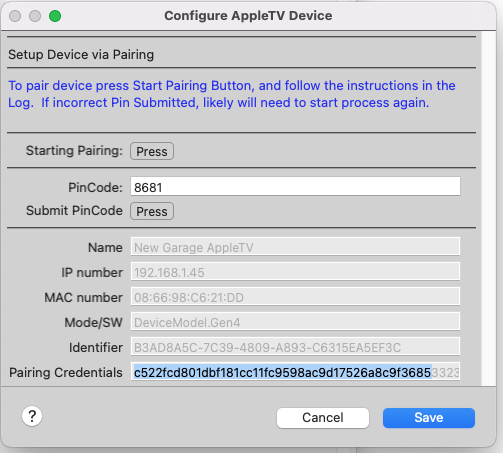
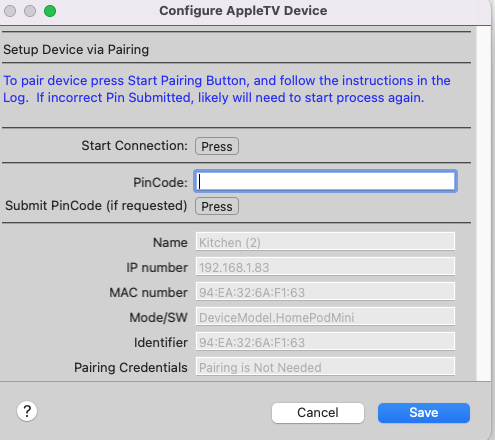
0.1.9 Add Action Group to Send Text to Speech annoucement to HomePods with current OSX System voice (Change current voice in OSX settings voices) Allows Device and Variable subsitution so can read weather forcast etc. depending on setup NEEDS ffmpeg (included in plugin), likely need quaranatine comm

Changed region(s): [[0.0, 0.0, 1.0, 1.0], [0.697, 0.0, 0.7273, 0.0295], [0.0, 0.3545, 0.0303, 0.3841]]

diff --git a/appleTV.indigoPlugin/Contents/Server Plugin/base36.py b/appleTV.indigoPlugin/Contents/Server Plugin/base36.py
@@ -1,4 +1,4 @@
-import sys
+mport sys
 
 
 __version__ = '0.1.1'

diff --git a/README.md b/README.md
@@ -66,13 +66,16 @@ Open a device, with the Edit Device Details
 You should see the above.
 
 Since OS16 and Apple4k you will need to pair your indigoplugin Device with your appleTV
+Some devices do not need to be paired (such as Homepods) - the button below will setup them up for use
 
 #### Steps:
-Press the Start Pairing Button.
+Press the Start Connection Button.
 
-The plugin should find and connect to your appleTV.
+The plugin should find and connect to your appleTV device, or Homepod.
 
-A pincode should be displayed on the screen.
+If a pincode is needed the log will let you know.  If not needed when prompted press SAVE and close the dialog.
+
+Otherwise on the appleTV device - A pincode should be displayed on the screen.
 
 Enter the Pincode in the box, and press submit Pincode (Press) Button.
 
